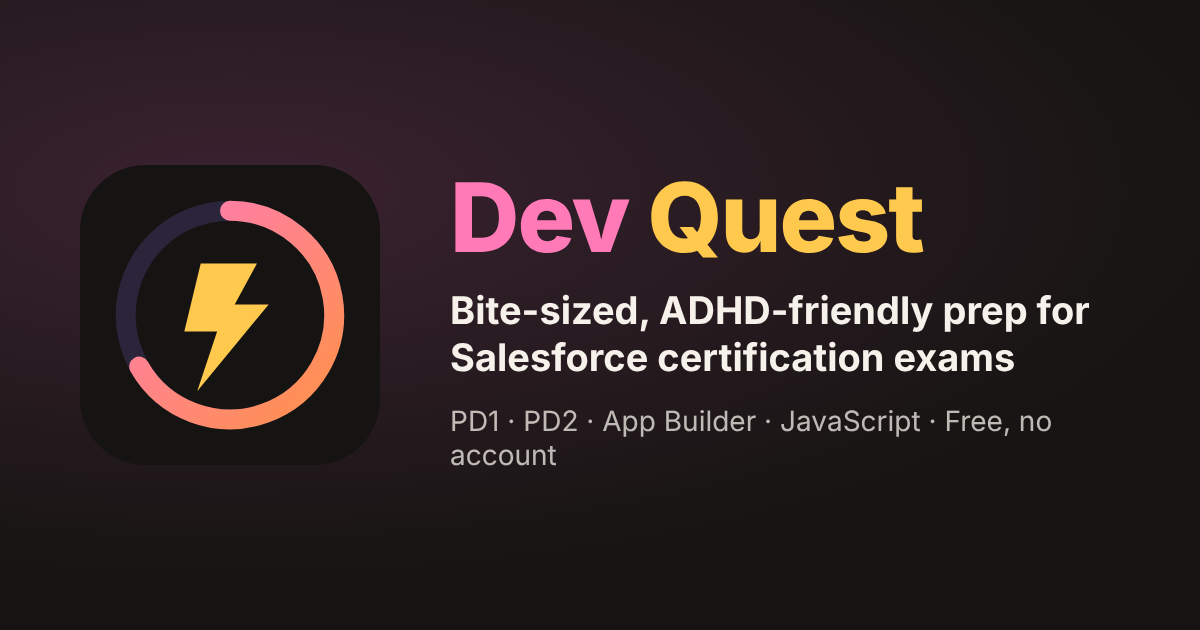
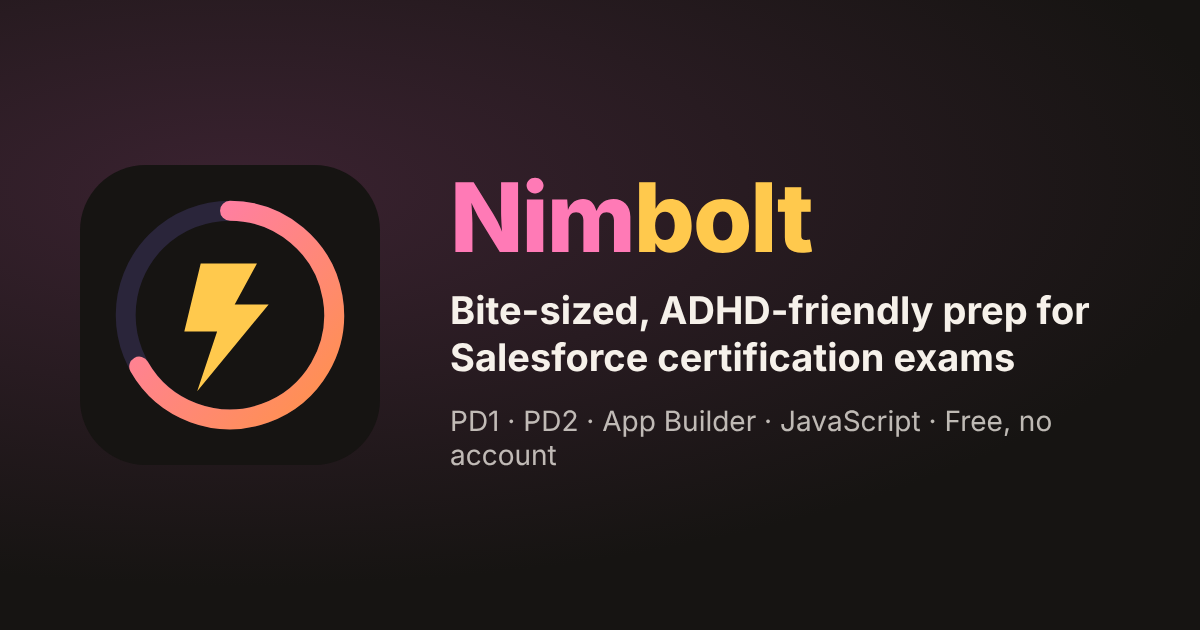
Rename to Nimbolt (from site.json everywhere), Admin tab with new-report badge for the owner
Claude-Session: https://claude.ai/code/session_014raFFc24BExxTXZkZJ4HU5

Changed region(s): [[0.37, 0.2714, 0.7708, 0.4222]]

diff --git a/src/components/InstallHelp.jsx b/src/components/InstallHelp.jsx
@@ -7,6 +7,7 @@ import { installMode, promptInstall, installDone, markInstalled, subscribeInstal
 import { Sheet } from './Sheet.jsx';
 import { sfx } from '../audio/sfx.js';
 import { Icon } from './icons/Icon.jsx';
+import { BRAND_NAME } from '../lib/appInfo.js';
 import { HeroArt } from './art/HeroArt.jsx';
 
 function KeyIcon({ children, label }) {
@@ -44,8 +45,8 @@ const IPHONE_STEPS = [
   { mark: 'compass', title: 'Open this page in Safari', body: 'Already in Safari? Great. In another app (Gmail, Slack…), tap “Open in Safari” first.' },
   { mark: 'share', icon: <ShareIcon />, title: 'Tap Share', body: <>It’s the square with an arrow, at the bottom of the screen (top right on iPad). Only see three dots? Tap <MoreIcon /> first, then <strong>Share</strong>.</> },
   { mark: 'add', icon: <AddIcon />, title: 'Tap “Add to Home Screen”', body: 'Scroll down the list to find it. Not there? Tap “View More” or “Edit Actions” at the bottom and add it.' },
-  { mark: 'check', title: 'Keep “Open as Web App” on, then tap Add', body: 'The name can stay “Dev Quest”. The lightning-bolt icon appears on your home screen.' },
-  { mark: 'rocket', title: 'Open Dev Quest from the new icon', body: 'It opens full screen like a real app and works offline.' },
+  { mark: 'check', title: 'Keep “Open as Web App” on, then tap Add', body: `The name can stay “${BRAND_NAME}”. The lightning-bolt icon appears on your home screen.` },
+  { mark: 'rocket', title: `Open ${BRAND_NAME} from the new icon`, body: 'It opens full screen like a real app and works offline.' },
 ];
 
 export function InstallHelpButton({ className = '' }) {
@@ -73,7 +74,7 @@ function InstallGuide({ onClose, onAdded }) {
     <div className="stack install-sheet">
       <div className="pq-install-head">
         <HeroArt kind="install" size={56} />
-        <h2 id="install-guide-title">Add Dev Quest to your Home Screen</h2>
+        <h2 id="install-guide-title">Add {BRAND_NAME} to your Home Screen</h2>
       </div>
       <p className="small muted">One minute, once: its own icon, full screen, works offline, and safer from Safari clearing site data.</p>
 
@@ -104,7 +105,7 @@ function InstallGuide({ onClose, onAdded }) {
       {!ios && (
         <section className="stack-s" aria-labelledby="android-title">
           <h3 id="android-title" className="pq-head"><span className="pq-tile s" data-tone="green"><Icon name="bot" /></span><span>Android (Chrome)</span></h3>
-          {canPrompt && <button className="btn primary" onClick={() => promptInstall()}>Install Dev Quest now</button>}
+          {canPrompt && <button className="btn primary" onClick={() => promptInstall()}>Install {BRAND_NAME} now</button>}
           <p className="small">Tap <MenuIcon /> (top right), then <strong>Install app</strong> or <strong>Add to Home screen</strong>.</p>
         </section>
       )}

diff --git a/src/components/BottomNav.jsx b/src/components/BottomNav.jsx
@@ -1,4 +1,4 @@
-// Bottom tab bar. All five tabs are the same size (Apple HIG / Material 3); the middle "Play" tab
+// Bottom tab bar. All tabs are the same size (Apple HIG / Material 3); the middle "Play" tab
 // (the adventure map) is emphasised only by a soft accent tile, solid when it is the current tab.
 // Icons never move on selection: the active tab is shown by the pill, a bolder icon and the colour.
 import { motion } from 'motion/react';
@@ -7,6 +7,8 @@ import { haptic } from '../audio/haptics.js';
 import { NAV_ICONS, PlayGlyph } from './icons/NavIcons.jsx';
 import { useReducedMotion, useCalm } from '../hooks/useMotionPrefs.js';
 import { track } from '../lib/track.js';
+import { useAuth } from '../hooks/useAuth.js';
+import { useNewFeedbackCount } from '../hooks/useNewFeedbackCount.js';
 
 const ITEMS = [
   ['/', 'home', 'Home'],
@@ -15,6 +17,8 @@ const ITEMS = [
   ['/exam', 'exam', 'Exam'],
   ['/me', 'me', 'Me'],
 ];
+// Only for the owner (accounts in the admins table): learners' reports and comments
+const ADMIN_ITEM = ['/inbox', 'admin', 'Admin'];
 
 const STILL = { duration: 0 };
 
@@ -22,12 +26,15 @@ export function BottomNav({ path, dueCards }) {
   const reduced = useReducedMotion();
   const calm = useCalm();
   const still = reduced || calm;
+  const { admin } = useAuth();
+  const newReports = useNewFeedbackCount(admin);
+  const items = admin ? [...ITEMS, ADMIN_ITEM] : ITEMS;
   const active = (to) => (to === '/' ? path === '/' : path.startsWith(to) || (to === '/map' && /^\/(world|lesson|play|learn|section|placement)/.test(path)));
   return (
-    <nav className="bottom-nav" aria-label="Main">
+    <nav className="bottom-nav" aria-label="Main" style={{ '--tabs': items.length }}>
       {/* On laptops the bar becomes a sidebar (desktop.css), headed by the exam you are studying */}
       <span className="nav-brand" aria-hidden="true">{track.name}</span>
-      {ITEMS.map(([to, icon, label, center]) => {
+      {items.map(([to, icon, label, center]) => {
         const on = active(to);
         if (center) {
           return (
@@ -49,6 +56,7 @@ export function BottomNav({ path, dueCards }) {
             <span className="nav-icon" aria-hidden="true">{(() => { const C = NAV_ICONS[icon]; return <C on={on} />; })()}</span>
             <span>{label}</span>
             {to === '/cards' && dueCards > 0 && <span className="nav-badge"><span aria-hidden="true">{dueCards > 99 ? '99+' : dueCards}</span><span className="sr-only">, {dueCards} due</span></span>}
+            {to === '/inbox' && newReports > 0 && <span className="nav-badge"><span aria-hidden="true">{newReports > 99 ? '99+' : newReports}</span><span className="sr-only">, {newReports} new</span></span>}
           </a>
         );
       })}

diff --git a/src/lib/reminderSchedule.js b/src/lib/reminderSchedule.js
@@ -4,7 +4,8 @@
 
 export const REMINDER_DAYS = ['daily', 'weekdays'];
 export const DEFAULT_REMINDER = { time: '19:00', days: 'daily', notify: false };
-export const REMINDER_TITLE = 'Dev Quest: 5 minutes';
+/** The reminder's title, e.g. "Nimbolt: 5 minutes" (the app's name comes from site.json via appInfo). */
+export const reminderTitle = (appName) => `${appName}: 5 minutes`;
 export const REMINDER_BODY = 'Got 5 minutes? A tiny round is ready whenever you are. No pressure.';
 
 const pad = (n) => String(n).padStart(2, '0');
@@ -87,14 +88,15 @@ export function foldLine(line) {
 }
 
 /** A complete VCALENDAR with one recurring 5-minute event and an alarm at its start. */
-export function buildReminderIcs({ time, days, url, now = new Date() }) {
+export function buildReminderIcs({ time, days, url, appName = 'Study app', now = new Date() }) {
+  const title = reminderTitle(appName);
   const r = normalizeReminder({ time, days });
   const start = nextOccurrence(r, now);
   const description = `${REMINDER_BODY}${url ? ` Open the app: ${url}` : ''}`;
   const lines = [
     'BEGIN:VCALENDAR',
     'VERSION:2.0',
-    'PRODID:-//Dev Quest//Study reminder//EN',
+    `PRODID:-//${appName}//Study reminder//EN`,
     'CALSCALE:GREGORIAN',
     'METHOD:PUBLISH',
     'BEGIN:VEVENT',
@@ -103,13 +105,13 @@ export function buildReminderIcs({ time, days, url, now = new Date() }) {
     `DTSTART:${formatLocalDateTime(start)}`,
     'DURATION:PT5M',
     rruleFor(r.days),
-    `SUMMARY:${escapeText(REMINDER_TITLE)}`,
+    `SUMMARY:${escapeText(title)}`,
     `DESCRIPTION:${escapeText(description)}`,
     ...(url ? [`URL:${url}`] : []),
     'TRANSP:TRANSPARENT',
     'BEGIN:VALARM',
     'ACTION:DISPLAY',
-    `DESCRIPTION:${escapeText(REMINDER_TITLE)}`,
+    `DESCRIPTION:${escapeText(title)}`,
     'TRIGGER:PT0S',
     'END:VALARM',
     'END:VEVENT',

diff --git a/src/lib/reminders.js b/src/lib/reminders.js
@@ -1,7 +1,8 @@
 // Opt-in study reminders: a downloadable .ics (works everywhere) plus, for the installed app,
 // local notifications that fire only while the app is open or still alive in the background.
 // Off by default. Never tied to streaks.
-import { buildReminderIcs, nextOccurrence, normalizeReminder, REMINDER_BODY, REMINDER_TITLE } from './reminderSchedule.js';
+import { buildReminderIcs, nextOccurrence, normalizeReminder, REMINDER_BODY, reminderTitle } from './reminderSchedule.js';
+import { BRAND_NAME } from './appInfo.js';
 import { isStandalone } from './displayMode.js';
 
 const KEY = 'pd2quest.reminders.v1';
@@ -34,7 +35,7 @@ export function appUrl() {
 
 /** Downloads the .ics. On iOS Safari, opening a text/calendar file shows the add-event sheet. */
 export function downloadReminderIcs({ time, days }) {
-  const ics = buildReminderIcs({ time, days, url: appUrl() });
+  const ics = buildReminderIcs({ time, days, url: appUrl(), appName: BRAND_NAME });
   const blob = new Blob([ics], { type: 'text/calendar;charset=utf-8' });
   const a = document.createElement('a');
   a.href = URL.createObjectURL(blob);
@@ -74,8 +75,8 @@ async function showReminderNotification() {
     const reg = 'serviceWorker' in navigator
       ? await Promise.race([navigator.serviceWorker.ready, new Promise((resolve) => setTimeout(resolve, 3000))])
       : null;
-    if (reg?.showNotification) return await reg.showNotification(REMINDER_TITLE, options);
-    new Notification(REMINDER_TITLE, options);
+    if (reg?.showNotification) return await reg.showNotification(reminderTitle(BRAND_NAME), options);
+    new Notification(reminderTitle(BRAND_NAME), options);
   } catch { /* the browser refused: nothing else to do */ }
 }
 

diff --git a/src/screens/Inbox.jsx b/src/screens/Inbox.jsx
@@ -3,12 +3,12 @@
 import { useCallback, useEffect, useId, useState } from 'react';
 import { supabase } from '../lib/auth.js';
 import { useAuth } from '../hooks/useAuth.js';
-import { go } from '../hooks/useRoute.js';
 import { Icon } from '../components/icons/Icon.jsx';
 import { Segmented } from '../components/Controls.jsx';
 import { Dropdown } from '../components/Dropdown.jsx';
 import { useFeedback } from '../components/Feedback.jsx';
 import { sfx } from '../audio/sfx.js';
+import { announceFeedbackChanged } from '../hooks/useNewFeedbackCount.js';
 
 const STATUSES = [
   { value: 'new', label: 'New' },
@@ -48,6 +48,7 @@ export function Inbox() {
       const { error } = await client.from('feedback').update({ status }).eq('id', row.id);
       if (error) throw error;
       sfx.done();
+      announceFeedbackChanged();
       setRows((list) => (filter === 'all' ? list.map((r) => (r.id === row.id ? { ...r, status } : r)) : list.filter((r) => r.id !== row.id)));
       showToast(`Marked ${STATUSES.find((s) => s.value === status).label.toLowerCase()}`, 'check');
     } catch { showToast('Couldn’t save that. Check the connection.'); }
@@ -56,7 +57,6 @@ export function Inbox() {
   return (
     <main className="screen" id="main">
       <div className="topbar">
-        <button className="icon-btn" onClick={() => go('/me')} aria-label="Back"><Icon name="back" /></button>
         <h1 className="grow pq-head"><span className="pq-tile s"><Icon name="report" /></span><span>Feedback inbox</span></h1>
         {admin && <button className="icon-btn" onClick={() => { sfx.tap(); setRows(null); load(); }} aria-label="Refresh"><Icon name="retry" /></button>}
       </div>

diff --git a/src/styles/global.css b/src/styles/global.css
@@ -79,7 +79,7 @@ strong { font-weight: 700; }
   height: calc(var(--nav-h) + var(--safe-b));
   padding: 6px 8px var(--safe-b);
   display: grid;
-  grid-template-columns: repeat(5, minmax(0, 1fr));
+  grid-template-columns: repeat(var(--tabs, 5), minmax(0, 1fr));
   background: var(--surface);
   border-top: 1px solid var(--hairline);
   z-index: 20;
@@ -1166,8 +1166,8 @@ h1[tabindex='-1']:focus, h2[tabindex='-1']:focus { outline: none; }
 .splash-title { display: grid; justify-items: center; gap: 10px; margin: 0; line-height: 1; }
 .splash-word { display: flex; font-family: 'Lexend', var(--font-body); font-size: clamp(44px, 14vw, 72px); font-weight: 700; letter-spacing: -0.02em; }
 .splash-letter { display: inline-block; color: var(--primary); text-shadow: 0 3px 0 var(--primary-ledge); animation: splashPop 600ms cubic-bezier(.34,1.56,.64,1) calc(1.35s + var(--i) * 70ms) both; }
-.splash-letter:nth-child(n+5) { color: var(--gold-text); text-shadow: 0 3px 0 color-mix(in srgb, var(--gold-text) 45%, #2b2118); }
-:root[data-theme='dark'] .splash-letter:nth-child(n+5) { color: var(--gold); text-shadow: 0 3px 0 #8A5A00; }
+.splash-letter.alt { color: var(--gold-text); text-shadow: 0 3px 0 color-mix(in srgb, var(--gold-text) 45%, #2b2118); }
+:root[data-theme='dark'] .splash-letter.alt { color: var(--gold); text-shadow: 0 3px 0 #8A5A00; }
 .splash-space { display: inline-block; width: 0.28em; }
 @keyframes splashPop { from { opacity: 0; transform: translateY(40%) scale(0.3) rotate(-14deg); } 60% { transform: translateY(-12%) scale(1.12) rotate(4deg); } }
 .splash-tagline {

diff --git a/src/hooks/useNewFeedbackCount.js b/src/hooks/useNewFeedbackCount.js
@@ -1,0 +1,28 @@
+// How many feedback reports are still "new" (for the Admin tab's badge). Checked when the owner is signed in,
+// again when the app comes back to the front, and when the inbox changes a report's status.
+import { useEffect, useState } from 'react';
+import { supabase } from '../lib/auth.js';
+
+const CHANGED = 'devquest:feedback-changed';
+export const announceFeedbackChanged = () => window.dispatchEvent(new Event(CHANGED));
+
+export function useNewFeedbackCount(on) {
+  const [count, setCount] = useState(0);
+  useEffect(() => {
+    if (!on) { setCount(0); return undefined; }
+    let alive = true;
+    const load = async () => {
+      try {
+        const client = await supabase();
+        const { count: n, error } = await client.from('feedback').select('id', { count: 'exact', head: true }).eq('status', 'new');
+        if (!error && alive) setCount(n ?? 0);
+      } catch { /* offline: keep the last number */ }
+    };
+    const onVisible = () => { if (document.visibilityState === 'visible') load(); };
+    load();
+    window.addEventListener(CHANGED, load);
+    document.addEventListener('visibilitychange', onVisible);
+    return () => { alive = false; window.removeEventListener(CHANGED, load); document.removeEventListener('visibilitychange', onVisible); };
+  }, [on]);
+  return count;
+}

diff --git a/src/components/splash/SplashScreen.jsx b/src/components/splash/SplashScreen.jsx
@@ -13,7 +13,7 @@ import { sfx } from '../../audio/sfx.js';
 import { haptic } from '../../audio/haptics.js';
 import { useHoldCelebrations } from '../../hooks/useFocusMode.js';
 import { useReducedMotion } from '../../hooks/useMotionPrefs.js';
-import { APP_VERSION, BRAND_NAME, BRAND_TAGLINE, COPYRIGHT_YEAR, STUDIO_NAME } from '../../lib/appInfo.js';
+import { APP_VERSION, BRAND_NAME, BRAND_WORDMARK, BRAND_TAGLINE, COPYRIGHT_YEAR, STUDIO_NAME } from '../../lib/appInfo.js';
 import { TRACKS, TRACK_IDS, currentTrack, hasChosenTrack, switchTrack, chooseTrack } from '../../lib/track.js';
 
 const SPLASH_MS = 4000;
@@ -94,7 +94,7 @@ export function SplashScreen({ onDone, instant = false }) {
       <h1 className="splash-title" aria-hidden="true">
         <span className="splash-word">
           {[...BRAND_NAME].map((ch, i) => (
-            <span key={i} className={ch === ' ' ? 'splash-space' : 'splash-letter'} style={{ '--i': i }}>{ch === ' ' ? ' ' : ch}</span>
+            <span key={i} className={ch === ' ' ? 'splash-space' : `splash-letter${i >= BRAND_WORDMARK[0].length ? ' alt' : ''}`} style={{ '--i': i }}>{ch === ' ' ? ' ' : ch}</span>
           ))}
         </span>
         <span className="splash-tagline">{BRAND_TAGLINE}</span>

diff --git a/src/components/ReminderSettings.jsx b/src/components/ReminderSettings.jsx
@@ -3,6 +3,7 @@ import { useId, useState } from 'react';
 import { Switch, Segmented } from './Controls.jsx';
 import { useFeedback } from './Feedback.jsx';
 import { Icon } from './icons/Icon.jsx';
+import { BRAND_NAME } from '../lib/appInfo.js';
 import {
   canOfferNotifications, downloadReminderIcs, notificationPermission, readReminder, requestNotificationPermission, saveReminder,
 } from '../lib/reminders.js';
@@ -50,8 +51,8 @@ export function ReminderSettings() {
         <Switch
           label="Also notify me on this phone"
           hint={permission === 'denied'
-            ? 'Notifications are blocked for Dev Quest. You can allow them in your phone’s settings.'
-            : 'Only works while Dev Quest is open or still running in the background. Phones may close it, so keep the calendar reminder too.'}
+            ? `Notifications are blocked for ${BRAND_NAME}. You can allow them in your phone’s settings.`
+            : `Only works while ${BRAND_NAME} is open or still running in the background. Phones may close it, so keep the calendar reminder too.`}
           checked={reminder.notify && permission === 'granted'}
           disabled={permission === 'denied'}
           onChange={toggleNotify}

diff --git a/src/components/account/AccountCard.jsx b/src/components/account/AccountCard.jsx
@@ -18,7 +18,7 @@ function syncText({ state, at }) {
 }
 
 export function AccountCard() {
-  const { ready, user, admin, busy, error } = useAuth();
+  const { ready, user, busy, error } = useAuth();
   const sync = useSyncExternalStore(subscribeSync, syncSnapshot, syncSnapshot);
   const [confirmDelete, setConfirmDelete] = useState(false);
   if (!hasSignIn()) return null;
@@ -50,7 +50,6 @@ export function AccountCard() {
         </span>
       </div>
       <p className="small muted" role="status"><Icon name={sync.state === 'synced' ? 'ok' : sync.state === 'error' || sync.state === 'offline' ? 'warn' : 'cloud'} /> {syncText(sync)}</p>
-      {admin && <a className="btn" href="#/inbox" onClick={() => sfx.tap()}><Icon name="report" /> Feedback inbox</a>}
       <div className="account-actions">
         <button type="button" className="btn" onClick={() => { sfx.tap(); syncNow(); }} disabled={sync.state === 'syncing'}><Icon name="retry" /> Sync now</button>
         <button type="button" className="btn" onClick={() => { sfx.tap(); signOut(); }} disabled={busy}>Sign out</button>

diff --git a/src/components/icons/NavIcons.jsx b/src/components/icons/NavIcons.jsx
@@ -55,6 +55,17 @@ export function MeIcon({ on }) {
   );
 }
 
+/** Admin (only the owner sees this tab): an inbox tray with a speech bubble, for learners' reports. */
+export function AdminIcon({ on }) {
+  return (
+    <Svg on={on}>
+      <path d="M4 15.5 6.6 7.4A2.5 2.5 0 0 1 9 5.6h10a2.5 2.5 0 0 1 2.4 1.8l2.6 8.1V22a2.5 2.5 0 0 1-2.5 2.5h-15A2.5 2.5 0 0 1 4 22Z" {...tone(on)} />
+      <path d="M4 15.5h5.5l1.6 2.8h5.8l1.6-2.8H24" />
+      <path d="M10.5 10.5h7" />
+    </Svg>
+  );
+}
+
 /** The big Play glyph inside the raised center tile: a rounded, solid triangle. */
 export function PlayGlyph() {
   return (
@@ -64,4 +75,4 @@ export function PlayGlyph() {
   );
 }
 
-export const NAV_ICONS = { home: HomeIcon, cards: CardsIcon, exam: ExamIcon, me: MeIcon };
+export const NAV_ICONS = { home: HomeIcon, cards: CardsIcon, exam: ExamIcon, me: MeIcon, admin: AdminIcon };

diff --git a/src/components/UpdateBanner.jsx b/src/components/UpdateBanner.jsx
@@ -5,6 +5,7 @@ import { updateReady, subscribeUpdates, installUpdate } from '../lib/updates.js'
 import { useIsFocusMode } from '../hooks/useFocusMode.js';
 import { useReducedMotion } from '../hooks/useMotionPrefs.js';
 import { Icon } from './icons/Icon.jsx';
+import { BRAND_NAME } from '../lib/appInfo.js';
 import { sfx } from '../audio/sfx.js';
 
 export function UpdateBanner() {
@@ -18,7 +19,7 @@ export function UpdateBanner() {
       initial={reduced ? false : { y: 20, opacity: 0 }} animate={{ y: 0, opacity: 1 }}
     >
       <Icon name="sparkles" />
-      <span className="grow">New version of Dev Quest ready</span>
+      <span className="grow">New version of {BRAND_NAME} ready</span>
       <button type="button" className="btn small primary" onClick={() => { sfx.tap(); installUpdate(); }}>Update</button>
     </motion.div>
   );
